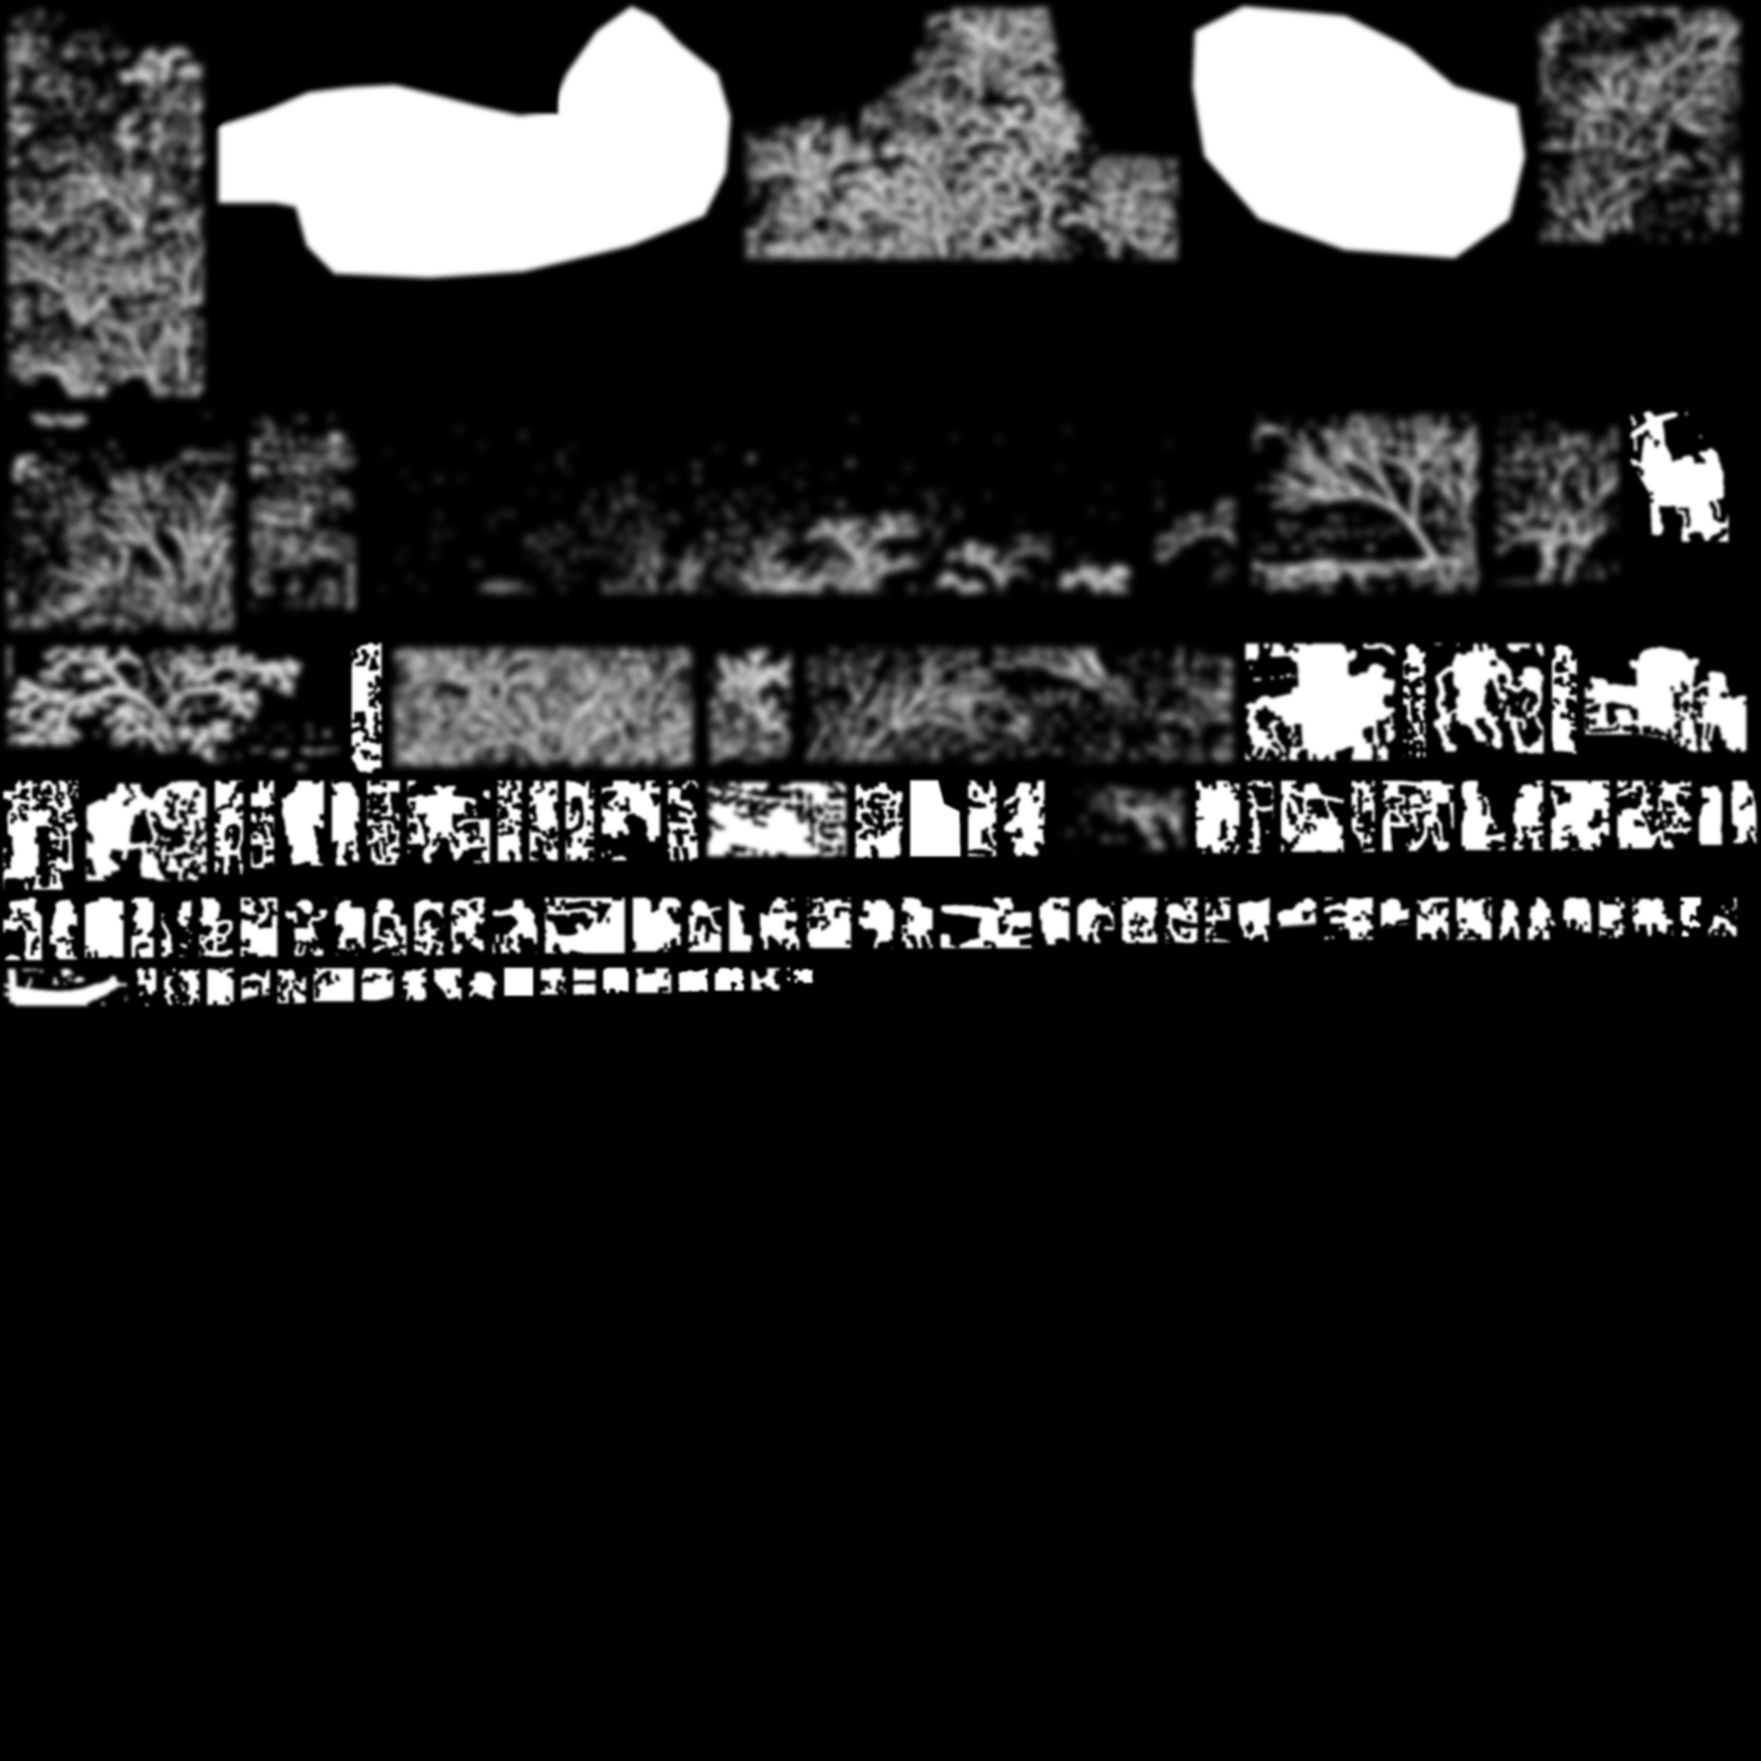
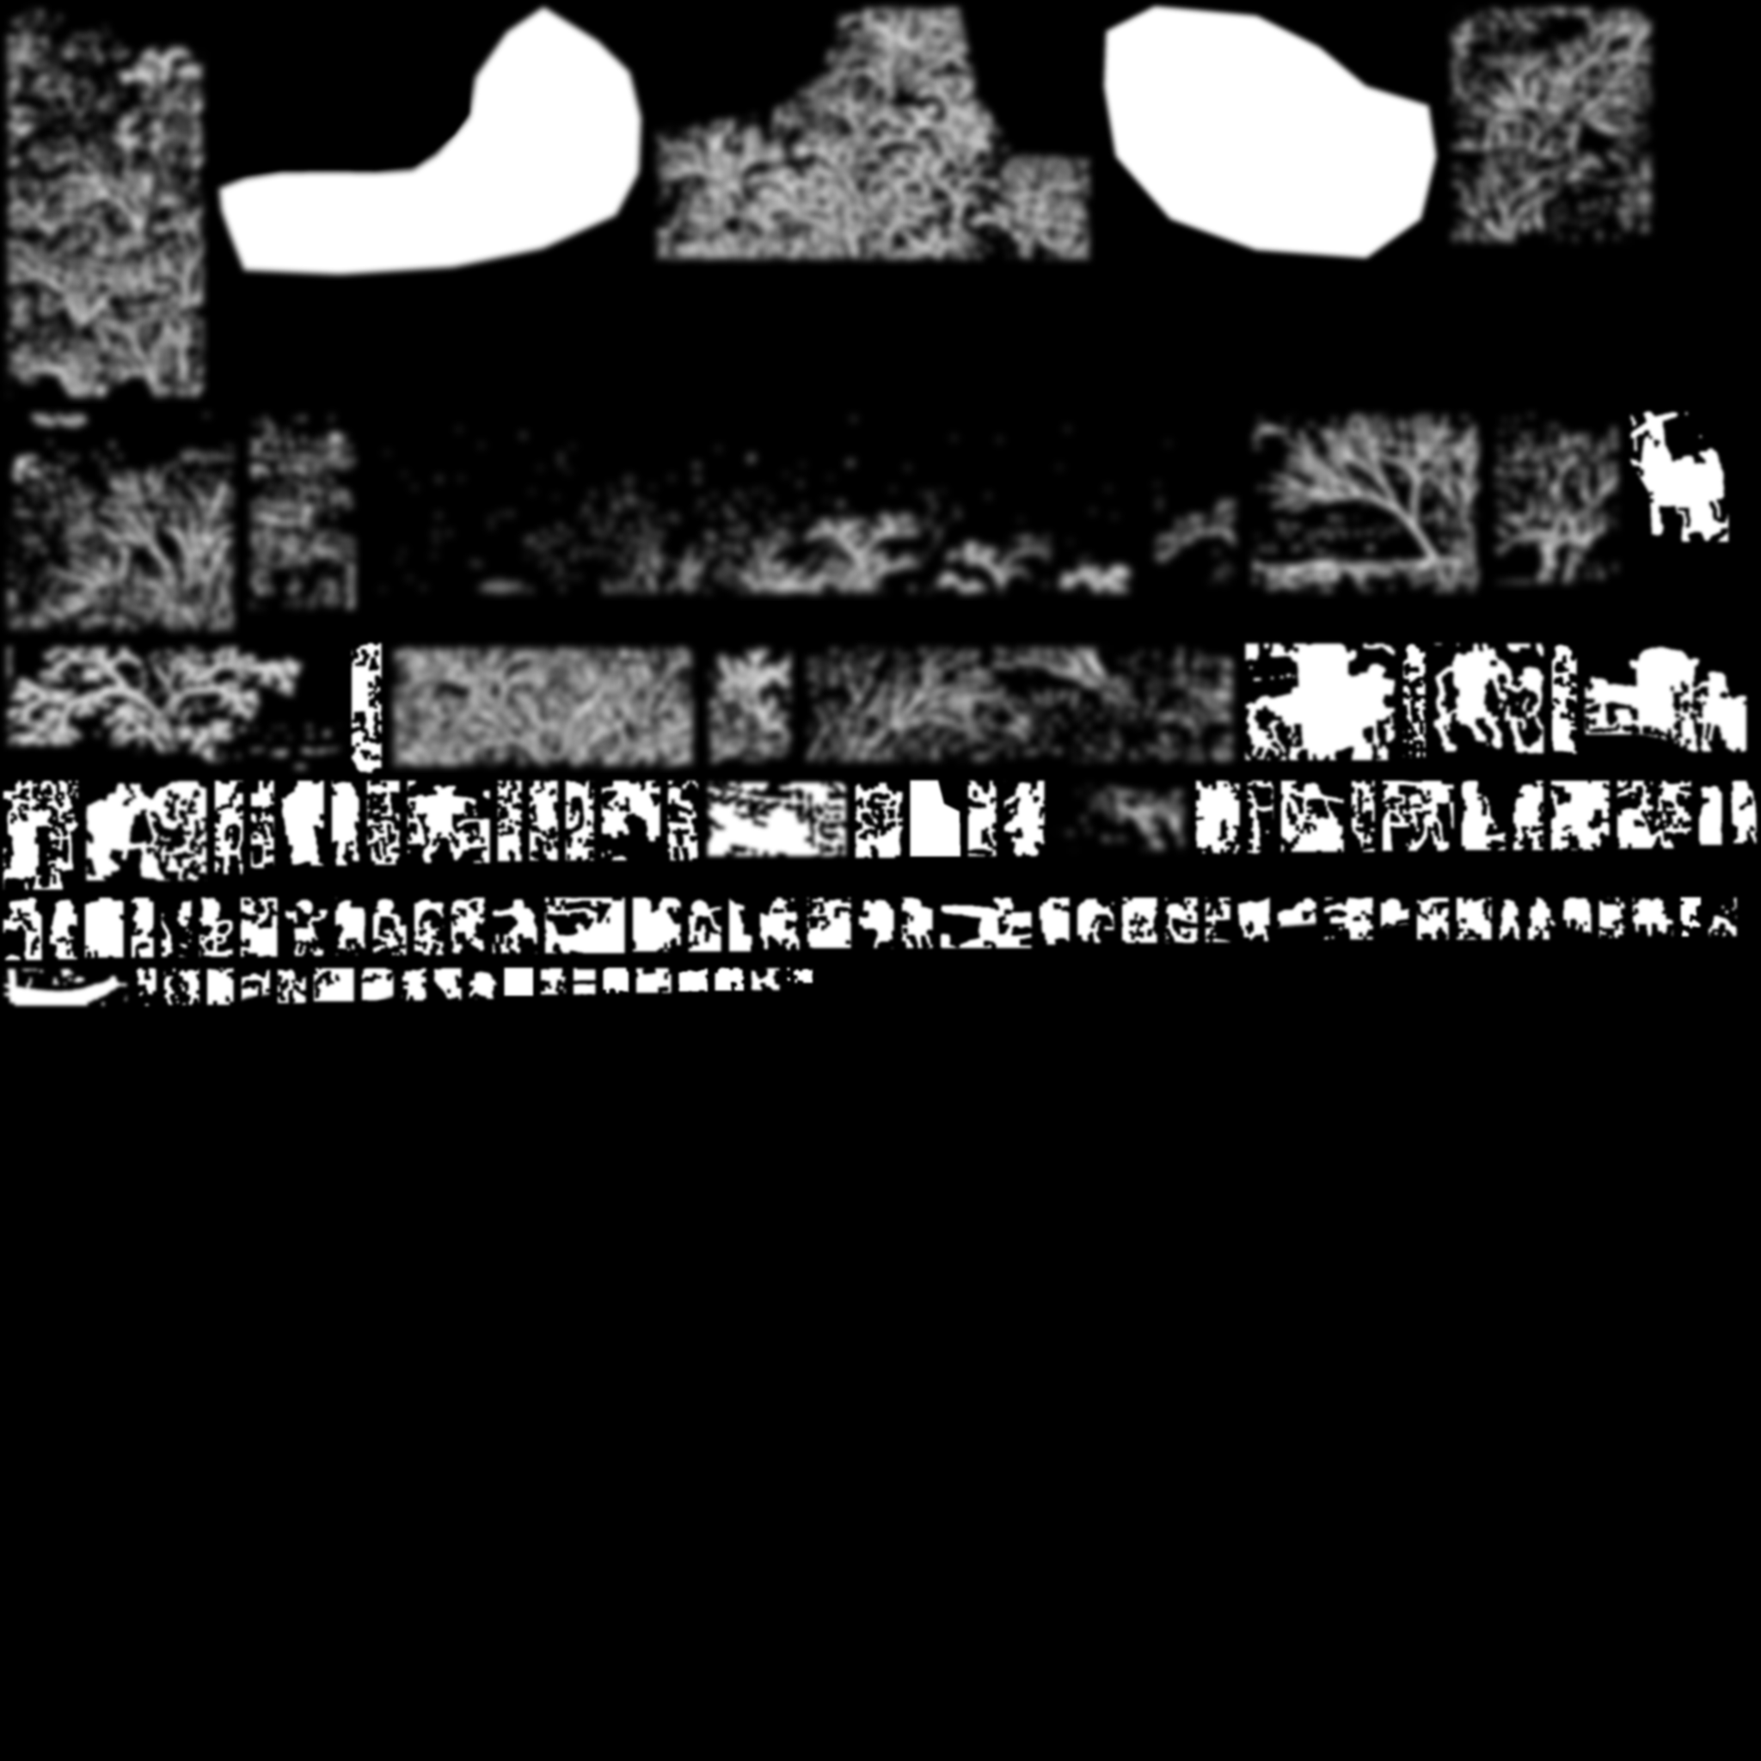
Drop the circles; keep the bridge's underside still
- Labels no longer circle their subject: a thin leader line ends in a
  small dot on it.
- Redraw the big boat's outline below the arch and add a still region for
  the bridge's timber underside and the far bank seen through the arch.
  Figures standing in front of it are marked "over" and keep their
  whole silhouette. The boat rocks a little less.

Claude-Session: https://claude.ai/code/session_01N9f6sH2oV4tvW8zvYG8o1A

Changed region(s): [[0.125, 0.0, 1.0, 0.1562]]

diff --git a/src/main.js b/src/main.js
@@ -1,6 +1,6 @@
 // The page. Scroll position is turned into a path for a camera along the scroll: the closed scroll unrolls from the
 // right, then the camera flies from one detail to the next (zooming out to travel and back in to look), holds on each
-// while the text, brush loops and labels appear, pulls out to the whole scroll, and follows it as it rolls back up to
+// while the text and the numbered labels appear, pulls out to the whole scroll, and follows it as it rolls back up to
 // where it started, closed, beside the closing notes. renderer.js draws the painting.
 import { SCROLL, INTRO, CHAPTERS, OUTRO, CLOSING, SOURCES } from './story.js';
 import { createRenderer } from './renderer.js';
@@ -206,27 +206,16 @@ function buildDom() {
   $('#sources').addEventListener('click', e => { if (e.target === $('#sources')) $('#sources').close(); });
 }
 
-// three slots for a shot's details: a brush loop, a leader line and a label with a numbered seal
+// three slots for a shot's details: a leader line from a small dot on the subject to a label with a numbered seal
 const slots = [0, 1, 2].map(() => {
   const g = svgEl('g', { class: 'pt' });
-  const under = svgEl('path', { class: 'loop-under', pathLength: 1 }), loop = svgEl('path', { class: 'loop', pathLength: 1 });
-  const lead = svgEl('polyline', { class: 'lead', pathLength: 1 });
-  g.append(under, loop, lead); ink.append(g);
+  const lead = svgEl('polyline', { class: 'lead', pathLength: 1 }), dot = svgEl('circle', { class: 'dot', r: 2.6 });
+  g.append(lead, dot); ink.append(g);
   const tag = el('div', 'tag', '<b class="seal"></b><span></span>');
   tag.setAttribute('aria-hidden', 'true');
   tagsEl.append(tag);
-  return { g, under, loop, lead, tag, label: null, tw: 0, th: 0 };
+  return { g, lead, dot, tag, label: null, tw: 0, th: 0 };
 });
-// a hand-drawn loop: once round and a little more, the radius wandering and opening out slightly
-function loopPath(x, y, r, seed) {
-  let d = '';
-  for (let i = 0, n = 56; i <= n; i++) {
-    const t = i / n, a = -2.2 + seed + t * Math.PI * 2.24;
-    const rr = r * (1 + .045 * Math.sin(a * 2 + seed * 5) + .07 * t);
-    d += `${i ? 'L' : 'M'}${(x + rr * Math.cos(a) * 1.1).toFixed(1)} ${(y + rr * Math.sin(a) * .9).toFixed(1)}`;
-  }
-  return d;
-}
 function measure() { for (const s of slots) s.label = null; }
 
 // ----------------------------------------------------------------------------------------------------- per frame
@@ -298,7 +287,7 @@ function overlays(st) {
     p.classList.toggle('current', al > .5);
   });
 
-  // details of the current shot: loops drawn one after another, each followed by its leader line and label
+  // details of the current shot, one after another: a leader line drawn out from the subject, then its label
   const pts = g.kind === 'hold' ? g.shot.points : [];
   const out = 1 - smooth(.9, .985, t), A = g.kind === 'hold' ? freeArea(g.ch.side) : null, placed = [];
   slots.forEach((sl, j) => {
@@ -308,7 +297,7 @@ function overlays(st) {
       sl.tag.querySelector('b').textContent = j + 1; sl.tag.querySelector('span').textContent = p.label;
       sl.label = p.label; sl.tw = sl.tag.offsetWidth; sl.th = sl.tag.offsetHeight;
     }
-    const { tw, th } = sl, c0 = .07 + j * (.6 / pts.length);
+    const { tw, th } = sl, c0 = .07 + j * (.5 / pts.length);
     const [x, y] = toScreen(cam, p.at[0], p.at[1]), r = Math.max(14, (p.r || 70) * k);
     // the label leads off the way the story says, unless there is more room on the other side
     let [dx, dy] = p.dir;
@@ -319,9 +308,10 @@ function overlays(st) {
     if (dy < 0 && !fitsUp) dy = 1; else if (dy > 0 && !fitsDown) dy = -1;
     // two labels leading toward each other at the same height would cross: send this one the other way vertically
     if (placed.some(q => q.dy === dy && (q.px < x ? q.dx > 0 && dx < 0 : q.dx < 0 && dx > 0)) && (dy < 0 ? fitsDown : fitsUp)) dy = -dy;
-    const n = Math.hypot(dx * 1.1, dy * .9), ex = x + dx * 1.1 / n * r * 1.05, ey = y + dy * .9 / n * r * 1.05;
-    const kx = ex + dx * 18;
-    let tx = clamp(dx > 0 ? kx + 18 : kx - 18 - tw, 6, L.band.w - 6 - tw), ty = ey + dy * 18 - th / 2;
+    // the line starts on the subject, a little off its centre so the dot doesn't sit on a face
+    const n = Math.hypot(dx * 1.1, dy * .9), ex = x + dx * 1.1 / n * r * .22, ey = y + dy * .9 / n * r * .22;
+    const kx = ex + dx * (18 + r * .75);
+    let tx = clamp(dx > 0 ? kx + 18 : kx - 18 - tw, 6, L.band.w - 6 - tw), ty = ey + dy * (18 + r * .75) - th / 2;
     for (let i = 0; i < 3; i++) {          // step clear of labels already placed
       const hit = placed.find(q => tx < q.x + q.w + 6 && tx + tw + 6 > q.x && ty < q.y + q.h + 5 && ty + th + 5 > q.y);
       if (!hit) break;
@@ -330,16 +320,15 @@ function overlays(st) {
     ty = clamp(ty, L.safe.top - 26, L.band.h - L.safe.bottom + 8 - th);
     placed.push({ x: tx, y: ty, w: tw, h: th, px: x, dx, dy });
     const ky = ty + th / 2, lx = dx > 0 ? Math.max(tx, kx) : Math.min(tx + tw, kx);
-    const d = loopPath(x, y, r, j * 1.7 + (g.si || 0));
-    sl.under.setAttribute('d', d); sl.loop.setAttribute('d', d);
+    sl.dot.setAttribute('cx', ex.toFixed(1)); sl.dot.setAttribute('cy', ey.toFixed(1));
     sl.lead.setAttribute('points', `${ex.toFixed(1)},${ey.toFixed(1)} ${kx.toFixed(1)},${ky.toFixed(1)} ${lx.toFixed(1)},${ky.toFixed(1)}`);
-    const pl = smooth(c0, c0 + .13, t), pd = smooth(c0 + .11, c0 + .17, t), pt = smooth(c0 + .14, c0 + .21, t);
-    sl.loop.style.strokeDashoffset = sl.under.style.strokeDashoffset = 1 - pl;
+    const pdot = smooth(c0, c0 + .03, t), pd = smooth(c0 + .01, c0 + .08, t), pt = smooth(c0 + .05, c0 + .12, t);
     sl.lead.style.strokeDashoffset = 1 - pd;
-    sl.g.style.opacity = out * (pl > 0 ? 1 : 0);
+    sl.dot.style.opacity = pdot;
+    sl.g.style.opacity = out * (pdot > 0 ? 1 : 0);
     sl.tag.style.opacity = pt * out;
     sl.tag.style.transform = `translate(${tx.toFixed(1)}px, ${ty.toFixed(1)}px)`;
-    sl.tag.querySelector('b').style.transform = `scale(${lerp(1.5, 1, smooth(c0 + .14, c0 + .19, t))})`;
+    sl.tag.querySelector('b').style.transform = `scale(${lerp(1.5, 1, smooth(c0 + .05, c0 + .1, t))})`;
   });
 
   // the end: the whole scroll with the places visited marked on it

diff --git a/src/story.js b/src/story.js
@@ -2,8 +2,8 @@
 // (Wikimedia Commons "Alongtheriver_QingMing.jpg", 38,414 × 1,800): x = 0 is the scan's left edge, the city end; the
 // scroll starts at high x. Positions were read off full-resolution crops of the scan.
 //
-// shot.focus: the rectangle the camera frames [x0, y0, x1, y1]; shot.points: details circled in cinnabar (centre `at`,
-// radius `r`) and marked with a numbered seal and a short label that leads off in direction `dir`. side: where the
+// shot.focus: the rectangle the camera frames [x0, y0, x1, y1]; shot.points: details marked with a numbered seal and a
+// short label whose leader line points at the subject (centre `at`, rough size `r`) and leads off in direction `dir`. side: where the
 // text column sits on wide screens (the subject is framed on the other side).
 export const SCROLL = {
   width: 38414, height: 1800,
@@ -25,7 +25,7 @@ export const CHAPTERS = [
       'Two men drive a string of donkeys loaded with charcoal along the path toward town, the same way the whole scroll will travel.',
     ],
     shots: [{ focus: [36180, 560, 37000, 1130], points: [
-      { at: [36600, 860], r: 120, label: 'Donkeys loaded with charcoal', dir: [-1, -1] },
+      { at: [36478, 838], r: 55, label: 'Donkeys loaded with charcoal', dir: [-1, -1] },
       { at: [36420, 1050], r: 80, label: 'A plank bridge on stilts', dir: [-1, 1] },
     ] }],
   },

diff --git a/styles.css b/styles.css
@@ -45,10 +45,8 @@ button { font: inherit; color: inherit; }
 }
 
 .pt { transition: none; }
-.loop, .loop-under, .lead { fill: none; stroke-dasharray: 1 1; stroke-linecap: round; stroke-linejoin: round; }
-.loop { stroke: var(--cinnabar); stroke-width: 2.6; }
-.loop-under { stroke: rgba(247, 236, 216, .3); stroke-width: 5.5; }
-.lead { stroke: var(--cinnabar); stroke-width: 1.6; }
+.lead { fill: none; stroke: var(--cinnabar); stroke-width: 1.6; stroke-dasharray: 1 1; stroke-linecap: round; stroke-linejoin: round; }
+.dot { fill: var(--cinnabar); stroke: rgba(247, 236, 216, .55); stroke-width: 1.2; }
 .tag {
   position: absolute; left: 0; top: 0; display: flex; align-items: center; gap: 8px; padding: 4px 11px 4px 4px;
   background: rgba(var(--table-rgb), .82); border-radius: 2px; white-space: nowrap; font-size: 14.5px; line-height: 1.25;

diff --git a/tools/make_life.py b/tools/make_life.py
@@ -7,8 +7,9 @@ px) is cut down to the brushwork inside it, so bare silk stays still and only th
   mask "fill"  (figures, default for gait and rock): the ink lines, with the shapes they enclose filled in
   mask "ink"   (branches, default for wind): the ink lines only
   mask "shape" (a whole boat): the shape as drawn
-Outlines under "still" (the bridge) are cut out of every rig, so the boat can rock under the bridge while the bridge
-stays put. The mask is feathered, drawn at half resolution and packed into one greyscale atlas. Flocks (birds drawn for this page)
+Outlines under "still" (the bridge, its underside, the far bank seen through the arch) are cut out of every rig, so the
+boat can rock under the bridge while the bridge stays put. A rig marked "over" (a figure standing in front of one) keeps
+its whole silhouette. The mask is feathered, drawn at half resolution and packed into one greyscale atlas. Flocks (birds drawn for this page)
 are copied through unchanged.
 Writes assets/life-atlas.png and assets/life.json.
 Usage: python3 tools/make_life.py life/rigs.json source/Alongtheriver_QingMing.jpg assets
@@ -66,7 +67,7 @@ def main(src, master_path, out):
             full = ImageChops.multiply(full, brushwork(master, (x0, y0, x1, y1), kind))
         w, h = max(2, round((x1 - x0) * SCALE)), max(2, round((y1 - y0) * SCALE))
         m = full.resize((w, h), Image.BOX).filter(ImageFilter.GaussianBlur(f * SCALE * .5))
-        if still:   # cut back from anything that must stay put, with a short ramp so the seam doesn't tear
+        if still and not r.get('over'):   # cut back from anything that must stay put, with a short ramp so the seam doesn't tear
             hold = Image.new('L', (x1 - x0, y1 - y0), 0)
             for poly in still: ImageDraw.Draw(hold).polygon([(x - x0, y - y0) for x, y in poly], fill=255)
             hold = hold.filter(ImageFilter.MaxFilter(9)).resize((w, h), Image.BOX).filter(ImageFilter.GaussianBlur(2))

diff --git a/README.md b/README.md
@@ -2,7 +2,7 @@
 
 Zhang Zeduan's handscroll *Along the River During the Qingming Festival* (Northern Song, early 12th century,
 24.8 × 528.7 cm, Palace Museum, Beijing), unrolled from right to left as you scroll. The camera stops at seven scenes
-along the 5.3 metres of silk. At each one it zooms in and circles the details in cinnabar, and a short text explains
+along the 5.3 metres of silk. At each one it zooms in, numbered labels point out the details, and a short text explains
 what you are looking at. Between scenes it pulls back to show where you are on the scroll, then flies on to the next.
 After the last scene it pulls out to the whole scroll, and as you keep scrolling the scroll rolls back up from its far
 end and closes as it began, beside four closing notes: what the scroll shows, the debate over its title, whether it
@@ -35,7 +35,7 @@ cross-fades, the slow push-in stops and the water and mist hold still.
 | piece | file | what it does |
 |---|---|---|
 | Story | `src/story.js` | The seven scenes in reading order: the rectangle the camera frames, the details to circle (centre, radius, label, which way the label leads), the text. Coordinates are master-scan pixels, read off full-resolution crops. |
-| Timeline | `src/main.js` | Scroll position, in screen heights, becomes a sequence: a closed scroll, unrolling, then *fly → hold* for every shot, and a last flight out to the whole scroll, then the roll-up (the camera follows the roll back to the start and closes in) and the closing notes, which appear one at a time. Flights use van Wijk & Nuij's smooth zoom (2003), which pulls back in proportion to the distance travelled. During a hold the camera pushes in slightly while the loops, leader lines and labels draw one after another. The scroll's unrolled edge only ever moves left as you read on and stays just off-screen. |
+| Timeline | `src/main.js` | Scroll position, in screen heights, becomes a sequence: a closed scroll, unrolling, then *fly → hold* for every shot, and a last flight out to the whole scroll, then the roll-up (the camera follows the roll back to the start and closes in) and the closing notes, which appear one at a time. Flights use van Wijk & Nuij's smooth zoom (2003), which pulls back in proportion to the distance travelled. During a hold the camera pushes in slightly while the numbered labels appear one after another, each with a leader line that ends in a small dot on its subject. The scroll's unrolled edge only ever moves left as you read on and stays just off-screen. |
 | Layout | `src/main.js`, `styles.css` | Wide screens put the painting full-bleed with the text in a column that alternates sides; the subject is framed in the space left over. Narrow screens put the painting in the top half and the text below it. On a screen too short for both paragraphs, they take turns. |
 | Renderer | `src/renderer.js` | WebGL 2. Draws the painting tiles, the blue-grey mount silk, the rolled part of the scroll on its rod with jade knobs, and the shadow on the table. In the same pass it draws ripples on open water (UV displacement and shimmer, limited by a water mask), mist over the countryside at the start, and the spotlight that dims and desaturates everything outside the subject. |
 | Moving layer | `life/rigs.json`, `tools/make_life.py`, `src/renderer.js`, `src/birds.js` | A *rig* is a region of the painting that moves in place: `gait` (a bounce on each step, for walkers and pack animals), `rock` (a turn about a pivot, for boats and gesturing figures) or `wind` (a sway that grows with height, for trees). Each rig's outline is cut down to the brushwork inside it, so only the figure or the branches move and the bare silk stays still. Outlines listed under `still` (the Rainbow Bridge) are cut out of every rig, so the boat can rock under the bridge without dragging it along. The masks go into one atlas, and the tile shader adds up the rigs' displacement, at most 32 in view at a time. Movements grow a little when the camera is far out, so they still read. Birds are SVG over the painting, multiplied into it like ink. |
@@ -89,6 +89,6 @@ stretch.
 ## Changing the scenes
 
 Edit `CHAPTERS` in `src/story.js`. A shot's `focus` is the rectangle to frame, `[x0, y0, x1, y1]` in master pixels.
-Each point has a centre `at`, a radius `r` and a `label`. `dir` is the way the label should lead (it flips when there
+Each point has a centre `at`, a rough size `r` (the leader line starts just inside it) and a `label`. `dir` is the way the label should lead (it flips when there
 isn't room). Scenes must stay in reading order, from high x to low x. Scroll lengths are set in `build()` in
 `src/main.js`.
